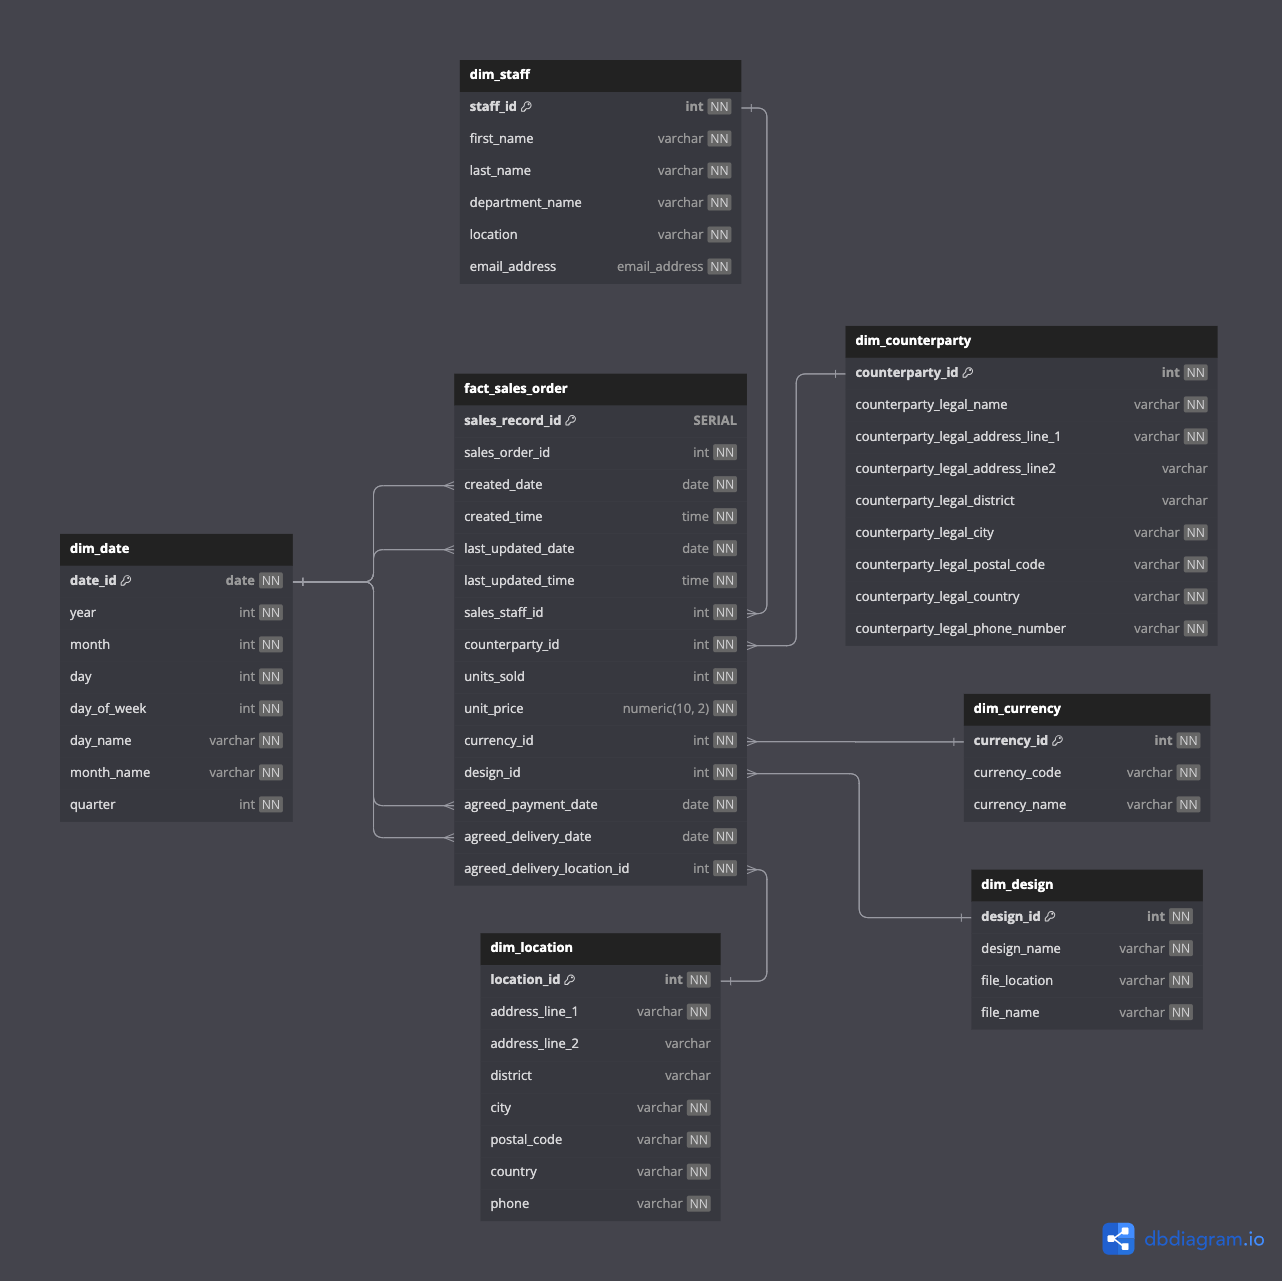
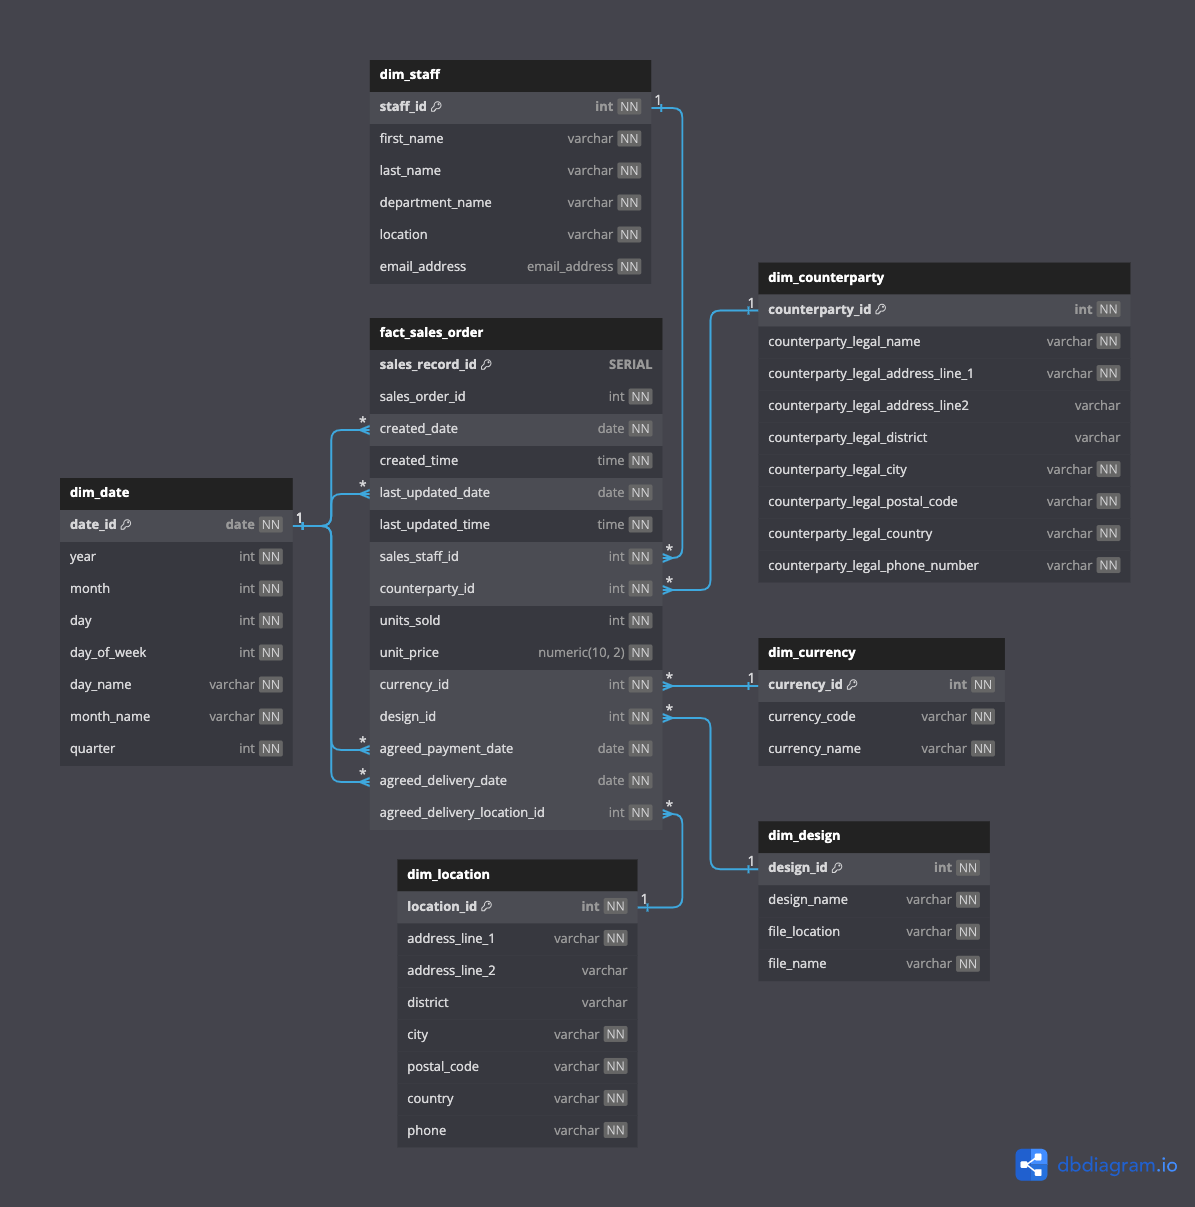
added schema diagrams with highlighted relationships

Changed region(s): [[0.031, 0.0307, 0.9598, 0.9503], [0.836, 0.9503, 0.9908, 0.9809], [0.2787, 0.3372, 0.3096, 0.3679]]

diff --git a/README.md b/README.md
@@ -157,10 +157,14 @@ This python application runs on a schedule in AWS Lambda, and performs the follo
 
 ## Diagrams and Schema <a name="diagrams-and-schema"></a>
 
-__ETL Diagram:__
+__Source schema:__
 
-![etl_diagram](./diagrams/etl_diagram.png)
+![source-schema](./diagrams/source_schema.png)
 
 __Target schema:__
 
 ![target-schema](./diagrams/target_schema.png)
+
+__ETL Diagram:__
+
+![etl_diagram](./diagrams/etl_diagram.png)
